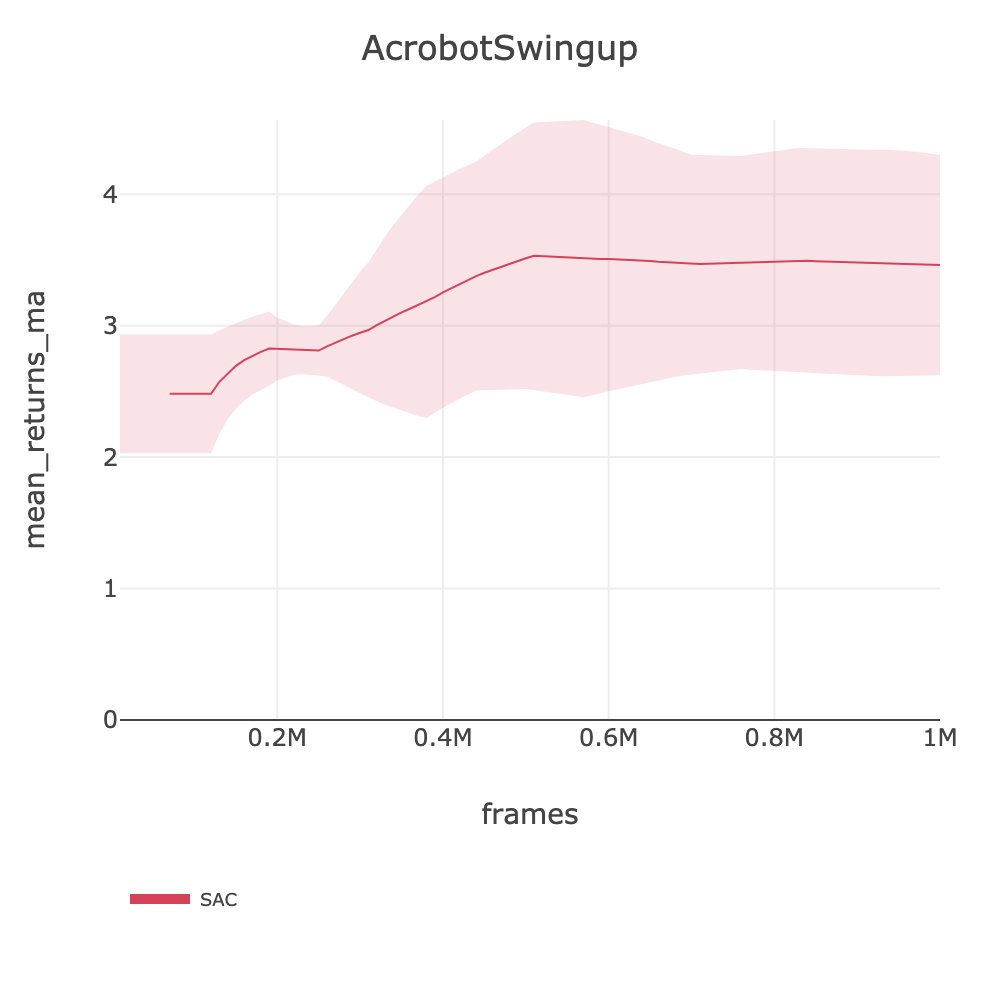
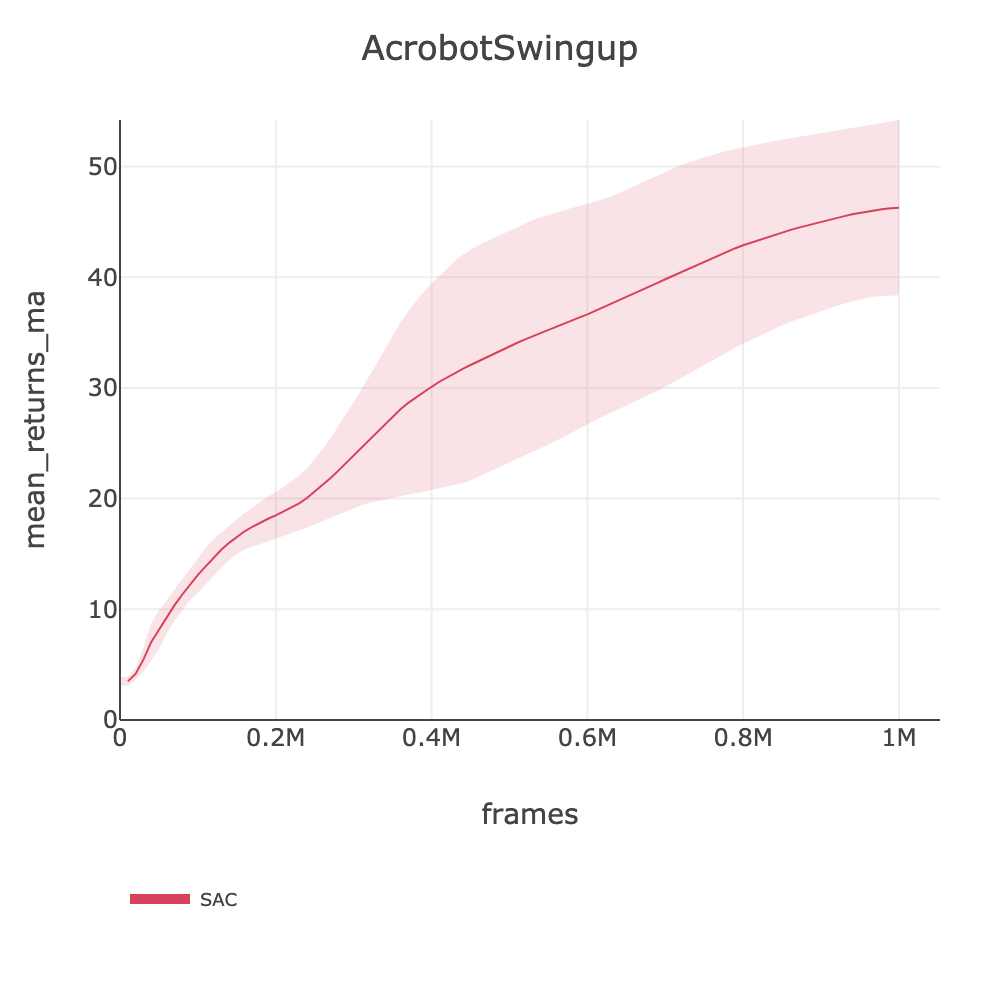
feat: Phase 5 AcrobotSwingup SAC UTD=1 (46.28), AcrobotSwingupSparse SAC UTD=1 (0.00)

diff --git a/docs/BENCHMARKS.md b/docs/BENCHMARKS.md
@@ -792,11 +792,11 @@ source .env && slm-lab run-remote --gpu -s env=playground/CartpoleBalance -s max
 | playground/CartpoleBalance (DR128) | - | 613.83 | ~995 | ~3540 (SAC-DR128/128e) | 10M | ~0.8h | [sac_playground_arc_dr128_cartpolebalance_2026_03_06_181905](https://huggingface.co/datasets/SLM-Lab/benchmark-dev/tree/main/data/sac_playground_arc_dr128_cartpolebalance_2026_03_06_181905) |
 | playground/CheetahRun | 53.61 | 112.59 | ~839 | ~2000(PPO) / ~140(SAC) | 2M | ~0.3h / ~4h | [ppo](https://huggingface.co/datasets/SLM-Lab/benchmark-dev/tree/main/data/ppo_playground_arc_cheetahrun_2026_03_06_134309) [sac](https://huggingface.co/datasets/SLM-Lab/benchmark-dev/tree/main/data/sac_playground_arc_cheetahrun_2026_03_06_094013) |
 | playground/HumanoidWalk | - | 10.33 | ~281 | ~329fps (SAC-fast/64e) | 2M | ~1.7h | [sac](https://huggingface.co/datasets/SLM-Lab/benchmark-dev/tree/main/data/sac_playground_arc_fast_humanoidwalk_2026_03_06_221222) |
-| playground/AcrobotSwingup | - | ~61 (est.) | ~63 | ~67 (SAC-UTD1/4e) | 1M | ~4.6h | — killed before completion, no HF data |
+| playground/AcrobotSwingup | - | 46.28 | ~63 | ~67 (SAC-UTD1/4e) | 1M | ~4.6h | [sac_playground_arc_utd1_acrobotswingup_2026_03_06_221001](https://huggingface.co/datasets/SLM-Lab/benchmark-dev/tree/main/data/sac_playground_arc_utd1_acrobotswingup_2026_03_06_221001) |
 | playground/BallInCup | - | 158.88 | ~944 | ~344 (SAC-fast/64e) | 1M | ~0.8h | [sac_playground_arc_fast_ballincup_2026_03_06_181754](https://huggingface.co/datasets/SLM-Lab/benchmark-dev/tree/main/data/sac_playground_arc_fast_ballincup_2026_03_06_181754) |
 | playground/CartpoleBalanceSparse | 504.59 | - | ~992 | ~310 (PPO/256e) | 1M | ~0.9h | [ppo_playground_arc_cartpolebalancesparse_2026_03_06_181842](https://huggingface.co/datasets/SLM-Lab/benchmark-dev/tree/main/data/ppo_playground_arc_cartpolebalancesparse_2026_03_06_181842) |
 | playground/CartpoleSwingup | - | 371.40 | ~868 | ~60 (SAC-UTD1/4e) | 1M | ~4.6h | [sac_playground_arc_cartpoleswingup_2026_03_06_130653](https://huggingface.co/datasets/SLM-Lab/benchmark-dev/tree/main/data/sac_playground_arc_cartpoleswingup_2026_03_06_130653) |
-| playground/AcrobotSwingupSparse | - | - | ~20 | - | - | - | - |
+| playground/AcrobotSwingupSparse | - | 0.00 | ~20 | ~67 (SAC-UTD1/4e) | 1M | ~4.6h | [sac_playground_arc_utd1_acrobotswingupsparse_2026_03_06_221029](https://huggingface.co/datasets/SLM-Lab/benchmark-dev/tree/main/data/sac_playground_arc_utd1_acrobotswingupsparse_2026_03_06_221029) |
 | playground/CartpoleSwingupSparse | - | - | ~630 | - | - | - | - |
 | playground/FingerSpin | - | 327.57 | ~742 | ~350 (SAC-fast/64e) | 1M | ~0.8h | [sac_playground_arc_fingerspin_2026_03_06_150750](https://huggingface.co/datasets/SLM-Lab/benchmark-dev/tree/main/data/sac_playground_arc_fingerspin_2026_03_06_150750) |
 | playground/FingerTurnEasy | - | 408.73 | ~709 | ~350 (SAC-fast/64e) | 1M | ~0.8h | [sac_playground_arc_fingerturneasy_2026_03_06_134326](https://huggingface.co/datasets/SLM-Lab/benchmark-dev/tree/main/data/sac_playground_arc_fingerturneasy_2026_03_06_134326) |
